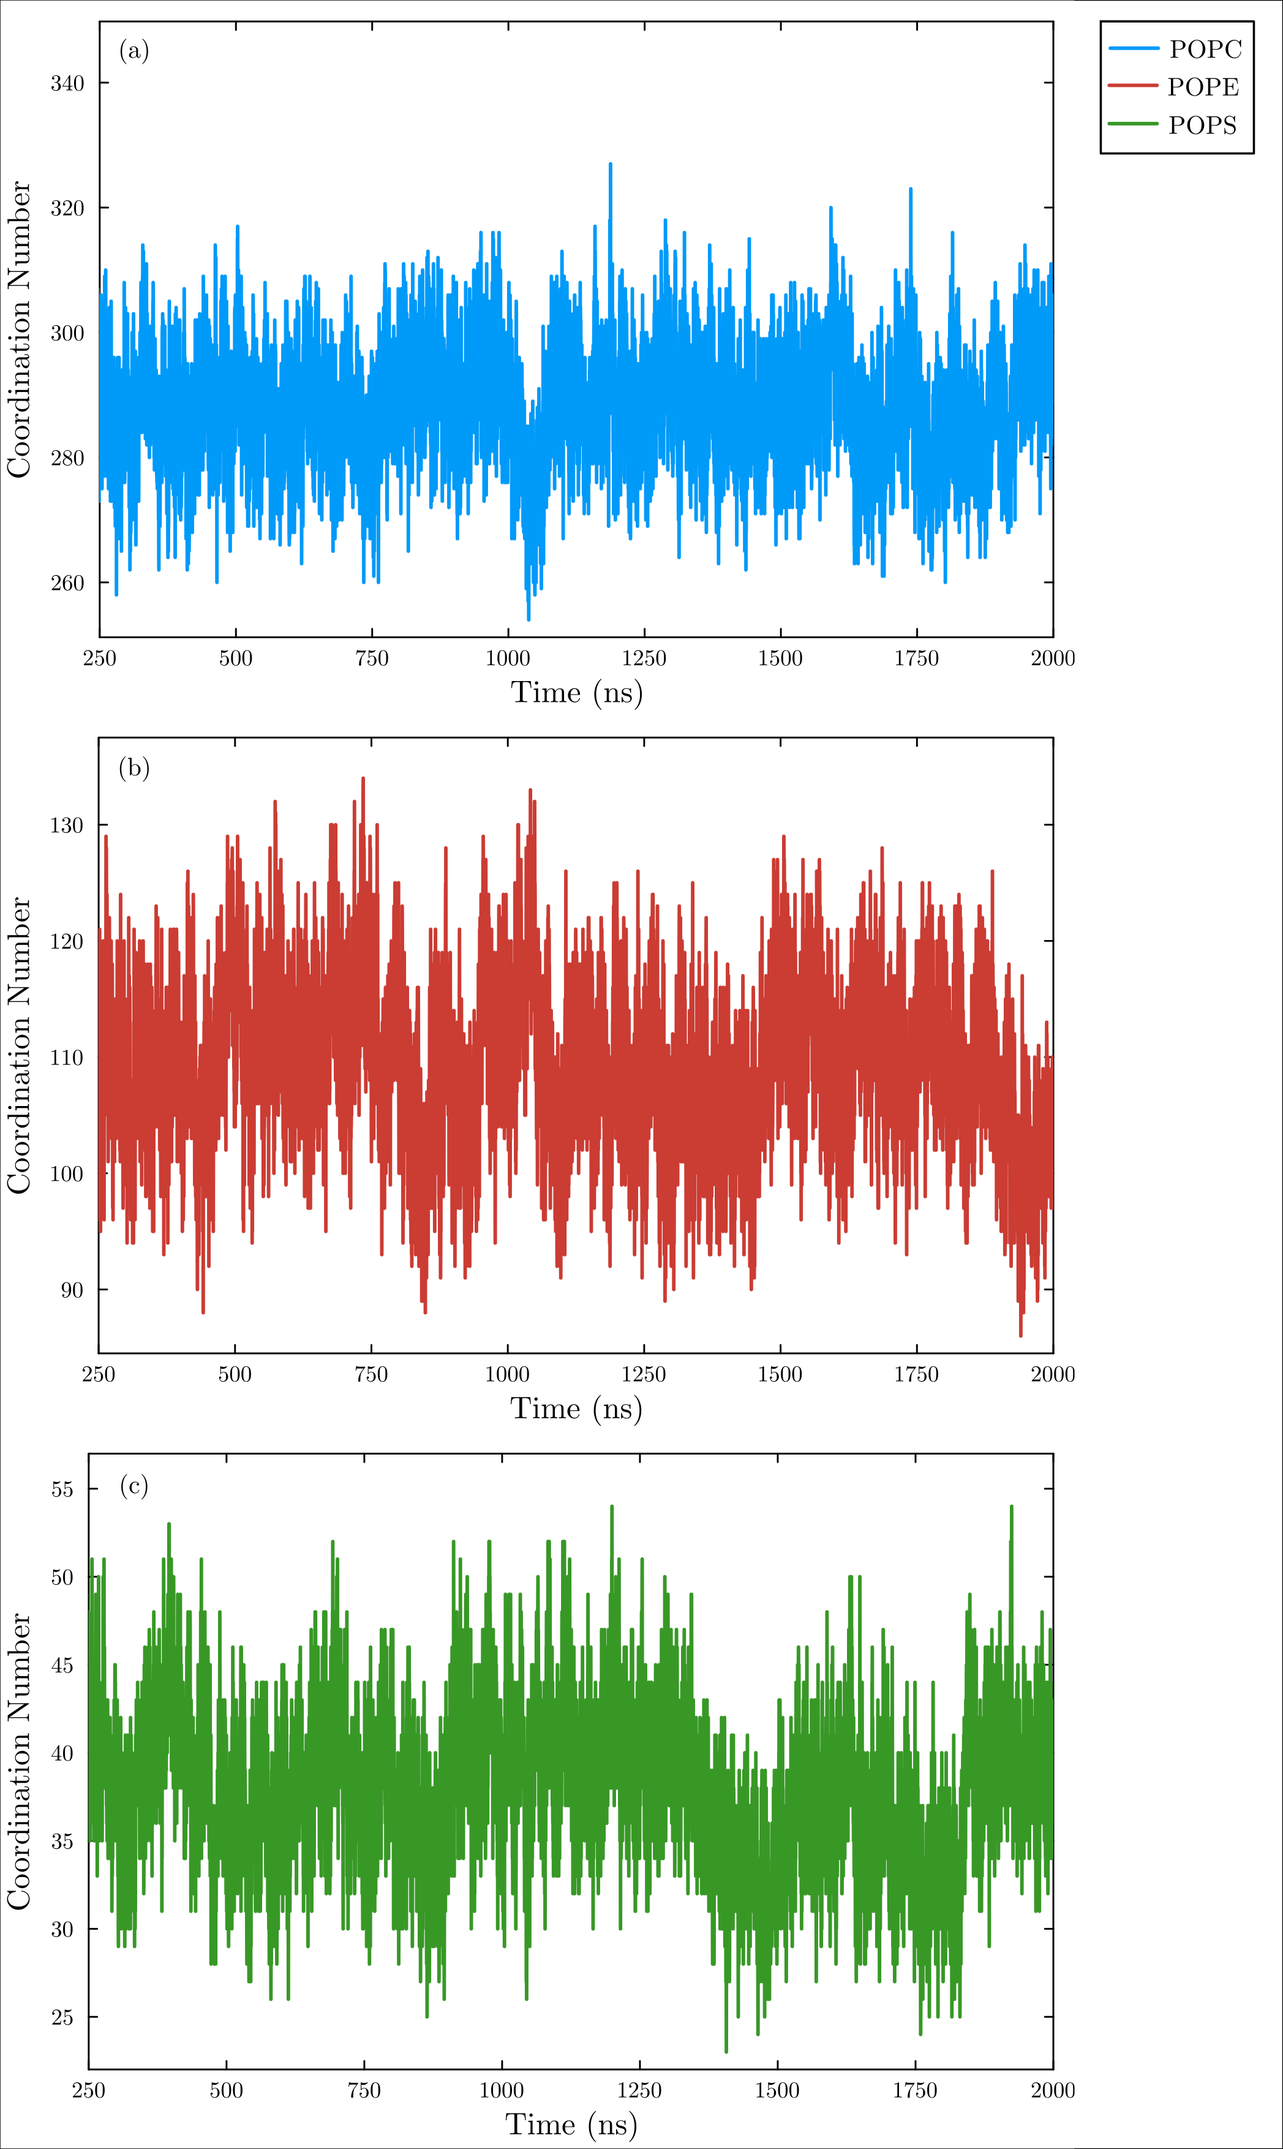
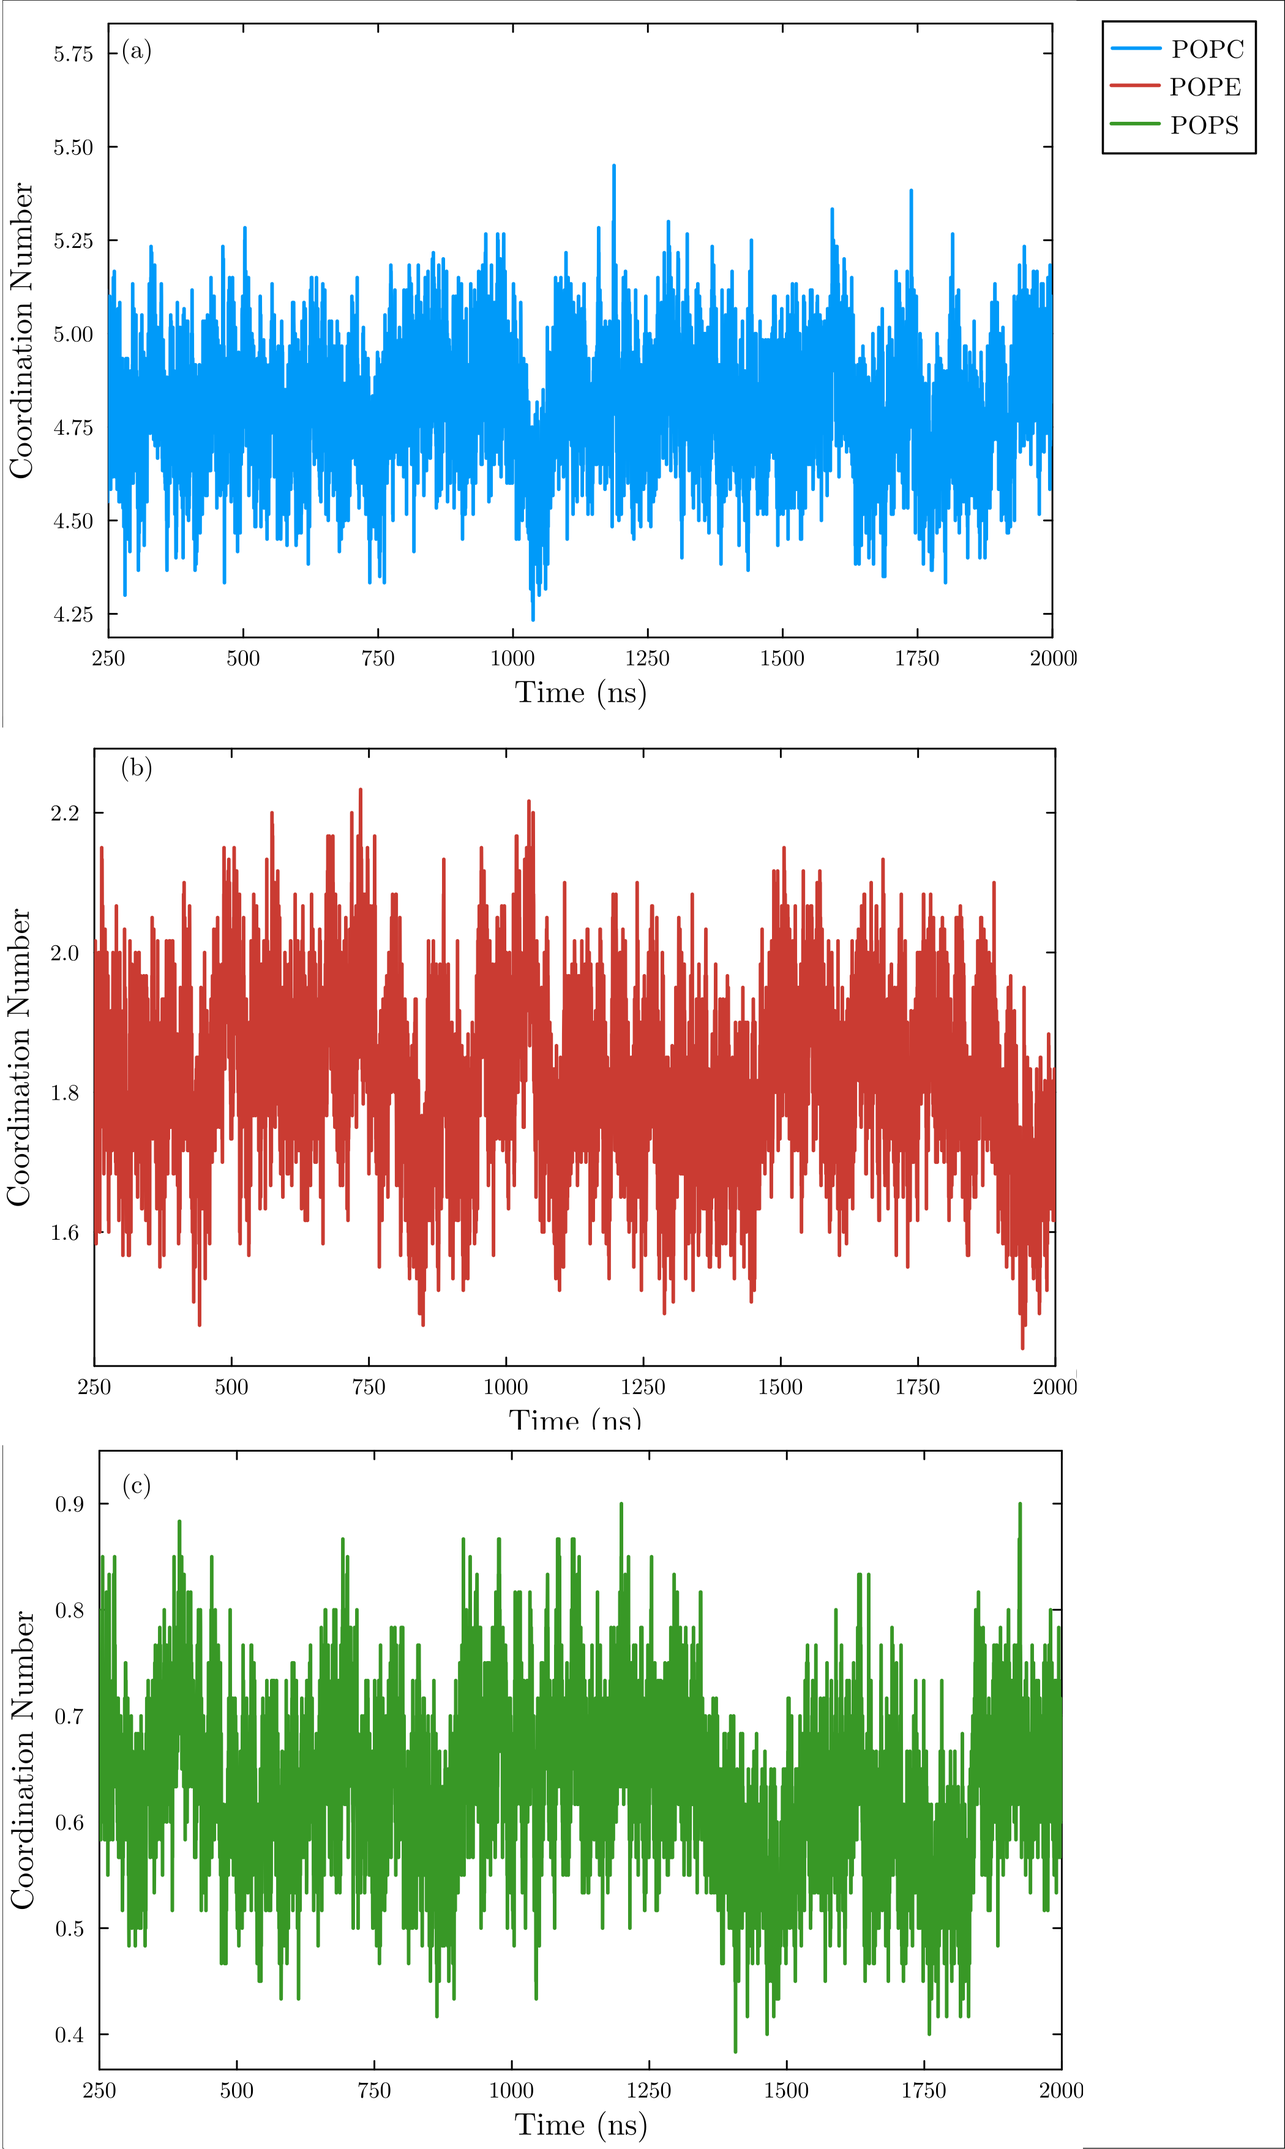
build based on 18da5ee

diff --git a/dev/index.html b/dev/index.html
@@ -12,4 +12,4 @@ Pkg.add([
     &quot;Plots&quot;
 ])</code></pre><div class="admonition is-warning" id="Compatibility-d3b9f1010ac52a7d"><header class="admonition-header">Compatibility<a class="admonition-anchor" href="#Compatibility-d3b9f1010ac52a7d" title="Permalink"></a></header><div class="admonition-body"><p>Ensure that you are using <strong>Julia 1.11.2</strong> for compatibility with the packages and scipts in the repository.</p></div></div><h3 id="Funding"><a class="docs-heading-anchor" href="#Funding">Funding</a><a id="Funding-1"></a><a class="docs-heading-anchor-permalink" href="#Funding" title="Permalink"></a></h3><p>The authors acknowledge the financial support of Fapesp (2018/24293-0, 2023/14353-4). Research developed with the help of Coaraci Supercomputer (2019/17874-0).</p><h2 id="References"><a class="docs-heading-anchor" href="#References">References</a><a id="References-1"></a><a class="docs-heading-anchor-permalink" href="#References" title="Permalink"></a></h2><p><a href="https://doi.org/10.1016/j.molliq.2021.117945"><strong>[1]</strong> L. Martínez, <strong>ComplexMixtures.jl: Investigating the structure solutions of complex-shaped molecules from a  solvent-shell perspective</strong>. <em>J. Mol. Liq</em>. 347, 117945, 2022.</a></p><p><a href="https://pubs.acs.org/doi/abs/10.1021/acs.jctc.7b00599"><strong>[2]</strong> L. Martínez, S. Shimizu, <strong>Molecular interpretation of preferential interactions in protein solvation: a solvent-shell perspective by means of minimum distribution functions</strong>. <em>J. Chem. Theor. Comp</em>. 13, 6358-6372, 2017.</a></p><h2 id="Additional-Resources"><a class="docs-heading-anchor" href="#Additional-Resources">Additional Resources</a><a id="Additional-Resources-1"></a><a class="docs-heading-anchor-permalink" href="#Additional-Resources" title="Permalink"></a></h2><p>For additional resources and publications related to the scope of this paper, please visit the <a href="http://m3g.iqm.unicamp.br"><strong>M3G Website</strong></a>.</p><a href="http://m3g.iqm.unicamp.br">
     <img align="left" src="assets/m3g.svg" width="60" style="margin-right: 10px;">
-</a><p><em>This work was carried out by the <strong>M3G Group</strong> at Unicamp in collaboration with the <strong>Biomolecular Simulations Group</strong> at the Institut Pasteur de Montevideo.</em></p></article><nav class="docs-footer"><a class="docs-footer-nextpage" href="figures/">Supplementary Figures »</a><div class="flexbox-break"></div><p class="footer-message">Powered by <a href="https://github.com/JuliaDocs/Documenter.jl">Documenter.jl</a> and the <a href="https://julialang.org/">Julia Programming Language</a>.</p></nav></div><div class="modal" id="documenter-settings"><div class="modal-background"></div><div class="modal-card"><header class="modal-card-head"><p class="modal-card-title">Settings</p><button class="delete"></button></header><section class="modal-card-body"><p><label class="label">Theme</label><div class="select"><select id="documenter-themepicker"><option value="auto">Automatic (OS)</option><option value="documenter-light">documenter-light</option><option value="documenter-dark">documenter-dark</option><option value="catppuccin-latte">catppuccin-latte</option><option value="catppuccin-frappe">catppuccin-frappe</option><option value="catppuccin-macchiato">catppuccin-macchiato</option><option value="catppuccin-mocha">catppuccin-mocha</option></select></div></p><hr/><p>This document was generated with <a href="https://github.com/JuliaDocs/Documenter.jl">Documenter.jl</a> version 1.16.1 on <span class="colophon-date" title="Monday 5 January 2026 18:57">Monday 5 January 2026</span>. Using Julia version 1.12.3.</p></section><footer class="modal-card-foot"></footer></div></div></div></body></html>
+</a><p><em>This work was carried out by the <strong>M3G Group</strong> at Unicamp in collaboration with the <strong>Biomolecular Simulations Group</strong> at the Institut Pasteur de Montevideo.</em></p></article><nav class="docs-footer"><a class="docs-footer-nextpage" href="figures/">Supplementary Figures »</a><div class="flexbox-break"></div><p class="footer-message">Powered by <a href="https://github.com/JuliaDocs/Documenter.jl">Documenter.jl</a> and the <a href="https://julialang.org/">Julia Programming Language</a>.</p></nav></div><div class="modal" id="documenter-settings"><div class="modal-background"></div><div class="modal-card"><header class="modal-card-head"><p class="modal-card-title">Settings</p><button class="delete"></button></header><section class="modal-card-body"><p><label class="label">Theme</label><div class="select"><select id="documenter-themepicker"><option value="auto">Automatic (OS)</option><option value="documenter-light">documenter-light</option><option value="documenter-dark">documenter-dark</option><option value="catppuccin-latte">catppuccin-latte</option><option value="catppuccin-frappe">catppuccin-frappe</option><option value="catppuccin-macchiato">catppuccin-macchiato</option><option value="catppuccin-mocha">catppuccin-mocha</option></select></div></p><hr/><p>This document was generated with <a href="https://github.com/JuliaDocs/Documenter.jl">Documenter.jl</a> version 1.16.1 on <span class="colophon-date" title="Monday 5 January 2026 19:31">Monday 5 January 2026</span>. Using Julia version 1.12.3.</p></section><footer class="modal-card-foot"></footer></div></div></div></body></html>

diff --git a/dev/figures/index.html b/dev/figures/index.html
@@ -107,4 +107,4 @@
 </figure><figure style="text-align: center;">
   <img src="../figures/figureS36.png" style="width:100%">
   <figcaption>Figure S36. Helical wheels of chains O and P depicting POPS contributions within 5 Å, with arrows indicating hydrophobic moment vectors relevant for membrane embedding.</figcaption>
-</figure><h2 id="Aditional-References"><a class="docs-heading-anchor" href="#Aditional-References">Aditional References</a><a id="Aditional-References-1"></a><a class="docs-heading-anchor-permalink" href="#Aditional-References" title="Permalink"></a></h2><section class="footnotes is-size-7"><ul><li class="footnote" id="footnote-1"><a class="tag is-link" href="#citeref-1">1</a>Khemaissa, S., Sagan, S. &amp; Walrant, A. Tryptophan, an Amino-Acid Endowed with Unique Properties and Its Many Roles in Membrane Proteins. Crystals 11, 1032 (2021).</li><li class="footnote" id="footnote-2"><a class="tag is-link" href="#citeref-2">2</a>Amino-Acid Solvation Structure in Transmembrane Helices from Molecular Dynamics Simulations. Biophysical Journal 91, 4450–4463 (2006).</li><li class="footnote" id="footnote-3"><a class="tag is-link" href="#citeref-3">3</a>Zhang, W. et al. Visualization of membrane protein domains by cryo-electron microscopy of dengue virus. Nature Structural &amp; Molecular Biology 10, 907–912 (2003).</li></ul></section></article><nav class="docs-footer"><a class="docs-footer-prevpage" href="../">« Home</a><a class="docs-footer-nextpage" href="../scripts/">Scripts »</a><div class="flexbox-break"></div><p class="footer-message">Powered by <a href="https://github.com/JuliaDocs/Documenter.jl">Documenter.jl</a> and the <a href="https://julialang.org/">Julia Programming Language</a>.</p></nav></div><div class="modal" id="documenter-settings"><div class="modal-background"></div><div class="modal-card"><header class="modal-card-head"><p class="modal-card-title">Settings</p><button class="delete"></button></header><section class="modal-card-body"><p><label class="label">Theme</label><div class="select"><select id="documenter-themepicker"><option value="auto">Automatic (OS)</option><option value="documenter-light">documenter-light</option><option value="documenter-dark">documenter-dark</option><option value="catppuccin-latte">catppuccin-latte</option><option value="catppuccin-frappe">catppuccin-frappe</option><option value="catppuccin-macchiato">catppuccin-macchiato</option><option value="catppuccin-mocha">catppuccin-mocha</option></select></div></p><hr/><p>This document was generated with <a href="https://github.com/JuliaDocs/Documenter.jl">Documenter.jl</a> version 1.16.1 on <span class="colophon-date" title="Monday 5 January 2026 18:57">Monday 5 January 2026</span>. Using Julia version 1.12.3.</p></section><footer class="modal-card-foot"></footer></div></div></div></body></html>
+</figure><h2 id="Aditional-References"><a class="docs-heading-anchor" href="#Aditional-References">Aditional References</a><a id="Aditional-References-1"></a><a class="docs-heading-anchor-permalink" href="#Aditional-References" title="Permalink"></a></h2><section class="footnotes is-size-7"><ul><li class="footnote" id="footnote-1"><a class="tag is-link" href="#citeref-1">1</a>Khemaissa, S., Sagan, S. &amp; Walrant, A. Tryptophan, an Amino-Acid Endowed with Unique Properties and Its Many Roles in Membrane Proteins. Crystals 11, 1032 (2021).</li><li class="footnote" id="footnote-2"><a class="tag is-link" href="#citeref-2">2</a>Amino-Acid Solvation Structure in Transmembrane Helices from Molecular Dynamics Simulations. Biophysical Journal 91, 4450–4463 (2006).</li><li class="footnote" id="footnote-3"><a class="tag is-link" href="#citeref-3">3</a>Zhang, W. et al. Visualization of membrane protein domains by cryo-electron microscopy of dengue virus. Nature Structural &amp; Molecular Biology 10, 907–912 (2003).</li></ul></section></article><nav class="docs-footer"><a class="docs-footer-prevpage" href="../">« Home</a><a class="docs-footer-nextpage" href="../scripts/">Scripts »</a><div class="flexbox-break"></div><p class="footer-message">Powered by <a href="https://github.com/JuliaDocs/Documenter.jl">Documenter.jl</a> and the <a href="https://julialang.org/">Julia Programming Language</a>.</p></nav></div><div class="modal" id="documenter-settings"><div class="modal-background"></div><div class="modal-card"><header class="modal-card-head"><p class="modal-card-title">Settings</p><button class="delete"></button></header><section class="modal-card-body"><p><label class="label">Theme</label><div class="select"><select id="documenter-themepicker"><option value="auto">Automatic (OS)</option><option value="documenter-light">documenter-light</option><option value="documenter-dark">documenter-dark</option><option value="catppuccin-latte">catppuccin-latte</option><option value="catppuccin-frappe">catppuccin-frappe</option><option value="catppuccin-macchiato">catppuccin-macchiato</option><option value="catppuccin-mocha">catppuccin-mocha</option></select></div></p><hr/><p>This document was generated with <a href="https://github.com/JuliaDocs/Documenter.jl">Documenter.jl</a> version 1.16.1 on <span class="colophon-date" title="Monday 5 January 2026 19:31">Monday 5 January 2026</span>. Using Julia version 1.12.3.</p></section><footer class="modal-card-foot"></footer></div></div></div></body></html>

diff --git a/dev/additional/index.html b/dev/additional/index.html
@@ -23,4 +23,4 @@
 </figure><figure style="text-align: center;">
   <img src="../figures/figureS44.png" style="width:100%">
   <figcaption>Figure S44. Fluctuations of the coordination number of outer POPS along the simulation and block analysis for time‑correlated data, showing the convergence of the worst block value to the global mean, the dependence of the standard error on the block size, the autocorrelation function with integrated correlation time, and the effective number of independent samples, calculated with the block‑averages method of MolSimToolkit.jl.</figcaption>
-</figure></article><nav class="docs-footer"><a class="docs-footer-prevpage" href="../scripts/">« Scripts</a><div class="flexbox-break"></div><p class="footer-message">Powered by <a href="https://github.com/JuliaDocs/Documenter.jl">Documenter.jl</a> and the <a href="https://julialang.org/">Julia Programming Language</a>.</p></nav></div><div class="modal" id="documenter-settings"><div class="modal-background"></div><div class="modal-card"><header class="modal-card-head"><p class="modal-card-title">Settings</p><button class="delete"></button></header><section class="modal-card-body"><p><label class="label">Theme</label><div class="select"><select id="documenter-themepicker"><option value="auto">Automatic (OS)</option><option value="documenter-light">documenter-light</option><option value="documenter-dark">documenter-dark</option><option value="catppuccin-latte">catppuccin-latte</option><option value="catppuccin-frappe">catppuccin-frappe</option><option value="catppuccin-macchiato">catppuccin-macchiato</option><option value="catppuccin-mocha">catppuccin-mocha</option></select></div></p><hr/><p>This document was generated with <a href="https://github.com/JuliaDocs/Documenter.jl">Documenter.jl</a> version 1.16.1 on <span class="colophon-date" title="Monday 5 January 2026 18:57">Monday 5 January 2026</span>. Using Julia version 1.12.3.</p></section><footer class="modal-card-foot"></footer></div></div></div></body></html>
+</figure></article><nav class="docs-footer"><a class="docs-footer-prevpage" href="../scripts/">« Scripts</a><div class="flexbox-break"></div><p class="footer-message">Powered by <a href="https://github.com/JuliaDocs/Documenter.jl">Documenter.jl</a> and the <a href="https://julialang.org/">Julia Programming Language</a>.</p></nav></div><div class="modal" id="documenter-settings"><div class="modal-background"></div><div class="modal-card"><header class="modal-card-head"><p class="modal-card-title">Settings</p><button class="delete"></button></header><section class="modal-card-body"><p><label class="label">Theme</label><div class="select"><select id="documenter-themepicker"><option value="auto">Automatic (OS)</option><option value="documenter-light">documenter-light</option><option value="documenter-dark">documenter-dark</option><option value="catppuccin-latte">catppuccin-latte</option><option value="catppuccin-frappe">catppuccin-frappe</option><option value="catppuccin-macchiato">catppuccin-macchiato</option><option value="catppuccin-mocha">catppuccin-mocha</option></select></div></p><hr/><p>This document was generated with <a href="https://github.com/JuliaDocs/Documenter.jl">Documenter.jl</a> version 1.16.1 on <span class="colophon-date" title="Monday 5 January 2026 19:31">Monday 5 January 2026</span>. Using Julia version 1.12.3.</p></section><footer class="modal-card-foot"></footer></div></div></div></body></html>

diff --git a/dev/scripts/index.html b/dev/scripts/index.html
@@ -99,4 +99,4 @@ end
 rc = rc/60
 
 # Step 6: Save the contributions per residue as a JSON file
-save(&quot;./rc_k_lipidbilayer&quot;, rc)</code></pre></article><nav class="docs-footer"><a class="docs-footer-prevpage" href="../figures/">« Supplementary Figures</a><a class="docs-footer-nextpage" href="../additional/">Additional Information »</a><div class="flexbox-break"></div><p class="footer-message">Powered by <a href="https://github.com/JuliaDocs/Documenter.jl">Documenter.jl</a> and the <a href="https://julialang.org/">Julia Programming Language</a>.</p></nav></div><div class="modal" id="documenter-settings"><div class="modal-background"></div><div class="modal-card"><header class="modal-card-head"><p class="modal-card-title">Settings</p><button class="delete"></button></header><section class="modal-card-body"><p><label class="label">Theme</label><div class="select"><select id="documenter-themepicker"><option value="auto">Automatic (OS)</option><option value="documenter-light">documenter-light</option><option value="documenter-dark">documenter-dark</option><option value="catppuccin-latte">catppuccin-latte</option><option value="catppuccin-frappe">catppuccin-frappe</option><option value="catppuccin-macchiato">catppuccin-macchiato</option><option value="catppuccin-mocha">catppuccin-mocha</option></select></div></p><hr/><p>This document was generated with <a href="https://github.com/JuliaDocs/Documenter.jl">Documenter.jl</a> version 1.16.1 on <span class="colophon-date" title="Monday 5 January 2026 18:57">Monday 5 January 2026</span>. Using Julia version 1.12.3.</p></section><footer class="modal-card-foot"></footer></div></div></div></body></html>
+save(&quot;./rc_k_lipidbilayer&quot;, rc)</code></pre></article><nav class="docs-footer"><a class="docs-footer-prevpage" href="../figures/">« Supplementary Figures</a><a class="docs-footer-nextpage" href="../additional/">Additional Information »</a><div class="flexbox-break"></div><p class="footer-message">Powered by <a href="https://github.com/JuliaDocs/Documenter.jl">Documenter.jl</a> and the <a href="https://julialang.org/">Julia Programming Language</a>.</p></nav></div><div class="modal" id="documenter-settings"><div class="modal-background"></div><div class="modal-card"><header class="modal-card-head"><p class="modal-card-title">Settings</p><button class="delete"></button></header><section class="modal-card-body"><p><label class="label">Theme</label><div class="select"><select id="documenter-themepicker"><option value="auto">Automatic (OS)</option><option value="documenter-light">documenter-light</option><option value="documenter-dark">documenter-dark</option><option value="catppuccin-latte">catppuccin-latte</option><option value="catppuccin-frappe">catppuccin-frappe</option><option value="catppuccin-macchiato">catppuccin-macchiato</option><option value="catppuccin-mocha">catppuccin-mocha</option></select></div></p><hr/><p>This document was generated with <a href="https://github.com/JuliaDocs/Documenter.jl">Documenter.jl</a> version 1.16.1 on <span class="colophon-date" title="Monday 5 January 2026 19:31">Monday 5 January 2026</span>. Using Julia version 1.12.3.</p></section><footer class="modal-card-foot"></footer></div></div></div></body></html>
